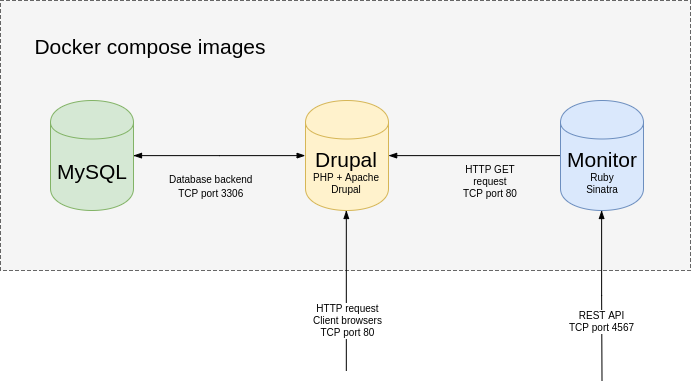
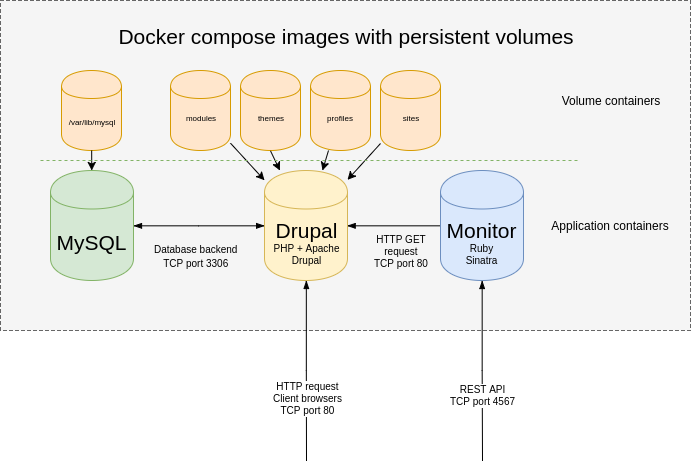
drawing updates

diff --git a/README.md b/README.md
@@ -111,13 +111,55 @@ docker run --name=drupal-single -v drupal-files:/var/www/application -v drupal-m
 
 ### Docker compose implementation for the whole stack
 
-TODO: separate components into docker images and create a whole stack instance using "docker-compose up"
+Separate docker images for components of the stack with persistent volumes for Drupal files and MySQL database backend
 
 ![docker-compose implementation drawing](images/dockercompose-drupal.png)
 
 Component list:
 - MySQL instance
 - Apache web server + PHP installed and configured (drupal docker image)
+- Monitoring system written in Ruby
+
+[docker-compose.yml file](dockercompose/docker-compose.yml) for the Drupal stack
+```
+version: '2'
+
+networks:
+ prodnetwork:
+  driver: bridge
+
+services:
+ mysql:
+  image: mysql
+  networks:
+   - prodnetwork
+  ports:
+   - "3306:3306"
+  environment:
+    - 'MYSQL_ROOT_PASSWORD=password'
+  volumes:
+    - /var/lib/mysql
+
+ drupal:
+  image: drupal 
+  networks:
+   - prodnetwork
+  ports:
+   - 80:80
+  volumes:
+    - /var/www/html/modules
+    - /var/www/html/profiles
+    - /var/www/html/themes
+    - /var/www/html/sites
+  depends_on:
+    - mysql
+
+```
+
+To bring the whole Drupal stack up just run
+```
+$ docker-compose up
+```
 
 ### AWS E2C instance implementation
 
